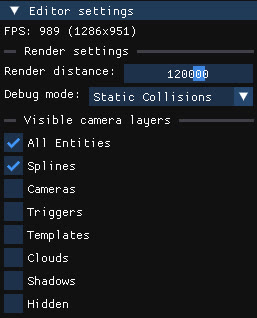
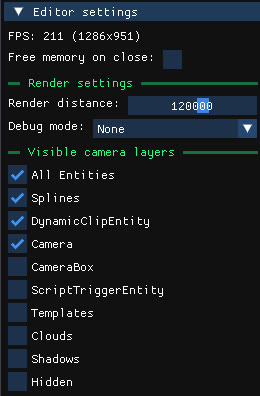
Update readme

Changed region(s): [[0.0, 0.0, 1.0, 1.0]]

diff --git a/README_Level_Editor.md b/README_Level_Editor.md
@@ -2,16 +2,17 @@
 
 - [New Level](#new-level)
 - [Level Editor](#level-editor)
-  - [Level infos](#level-infos)
-  - [Editor settings](#editor-settings)
-  - [Object Tree](#object-tree)
-- [Scene View](#scene-view)
-  - [Add Objects](#create-new-objects)
-  - [Prefabs](#prefabs)
+- [Create new objects](#create-new-objects)
 - [Object Properties](#object-properties)
-  - [Transform](#transform)
-  - [Components](#components)
+- [Custom Components](#components)
+  - [Static Models](#static-models)
+  - [Spawner Templates](#spawner-templates)
+  - [Prefabs](#prefabs)
   - [Splines](#splines)
+  - [Trigger Volumes](#trigger-volumes)
+  - [Outline Switch Crate](#outline-switch-crate)
+  - [Checkpoint Text](#checkpoint-text)
+  - [On Start Music](#on-start-music)
 
 # New Level
 
@@ -24,12 +25,14 @@ You can either create a new level from scratch or duplicate an existing level.
 - Or choose "`none`" to create a new empty level containing:
   - a camera
   - a light source
+  - a music theme
   - a level start & level end
   - a platform with collisions
   - most common crates
 
 Choosing "`none`" also unlock these additional parameters:
   - **Lighting**: Import the main lighting/ambience from another level
+  - **Music**: Import the main music theme from another level (you can still import custom music later on)
   - **Mode**: Crash 1, 2 or 3 (used to create the level start & end)
 
 _basic empty template_:
@@ -39,15 +42,31 @@ _basic empty template_:
 
 # Level Editor
 
-![Level Editor](assets/readme/level_editor/editor.jpg)
+## Key features
 
-## Play
+![Editor Settings](assets/readme/demo.gif)
+
+- You can open multiple levels at once (click on the `Home` icon in the top left or `File -> Open` after opening a first level)
+- You can select multiple objects using Shift
+- You can copy and paste selected objects (Ctrl+C / Ctrl+V) from one level editor to another
+- You can create tabs by clicking on the title of a window and dragging it over another window's title to make it easier to switch between levels
+
+You can also find the list of all objects that have already been tested here: [docs.google.com/spreadsheets/d/1jVLJTm1idsps4p5KSXfI80fT5y7HFQuSiLOLkI18K30](https://docs.google.com/spreadsheets/d/1jVLJTm1idsps4p5KSXfI80fT5y7HFQuSiLOLkI18K30/edit?usp=sharing)
+
+## Save & Play
 
 You can play the current level by clicking this button at the top-right of the level editor:
 
 ![Play](assets/readme/level_editor/play.jpg)
 
-This won't include unsaved changes. If you want to test your latest changes you'll need to save the archive first (`Ctrl+S`), or use the "Save and Launch" shortcut (`Ctrl+L`)
+It won't include unsaved changes.
+- Use `Ctrl+S` to save the level
+- Use `Ctrl+L` to backup, save and launch the level
+- When sharing levels, consider using `File -> Compress & Save` to reduce the level size
+
+#### Backup menu
+- You can manually backup and restore the level. It will be saved under `<level_name>_Backup.pak`
+- An automatic backup is created each time you use `Ctrl+L`, overwriting the previous automatic backup for this level
 
 ## Level Infos
 
@@ -68,6 +87,8 @@ Debug settings for the level editor
 
 ![Editor Settings](assets/readme/level_editor/editor_settings.jpg)
 
+- **Free Memory On Close**: The app will automatically clear its memory once all level editors have been closed, but you can enable this option to force clearing the memory each time you close a level editor (if you encounter memory issues). It's disabled by default because it can sometimes crash the editor.
+
 - **Render distance**: How far to render into the scene. Decrease this value to increase performances
 
 - **Debug Mode**:
@@ -86,12 +107,12 @@ Contains the list of all objects in the level, grouped by type. Click on an elem
 
 3D Entities:
 
-- **Static Objects**: Contains static entities, which represent most of the level's geometry and can have baked-in collisions
-- **Prefabs**: Contains all instanciated prefab entities (See #prefabs)
+- **Static Objects**: Contains static entities, which represent most of the level's geometry and can have baked-in collisions (See [#static objects](#static-models))
+- **Prefabs**: Contains all instanciated prefab entities (See [#prefabs](#prefabs))
 - **Crates**: Contains all crates in the level
-- **Splines**: Contains all spline entities (paths)
+- **Splines**: Contains all spline entities (See [#splines](#splines))
 - **Player Start**: Contains the player start entity (where the character is spawned when starting the level)
-- **CEntity / CGameEntity / CPhysicalEntity**: Contains most of the level's game objects (enemies, hazards, obstacles...)
+- **CEntity / CGameEntity / CPhysicalEntity**: Contains most of the level's game objects (enemies, hazards, obstacles... see [#spawner templates](#spawner-templates))
 - **CActor**: Contains character entities (Fake crash, bosses...)
 
 Objects without a model:
@@ -99,60 +120,43 @@ Objects without a model:
 
 - **CScriptTriggerEntity**: Contains trigger entities (activates something when the player enters its bounds)
 - **CDynamicClipEntity**: Contains clipping entities (invisible boxes that collide with the player)
-- **Other**: Contains all other entities without a model such as VFX or SFX effects
+- **Other**: Contains all other entities without a model such as VFX, SFX or area effects
 - **Cameras**: Contains all types of cameras
-- **CameraBox**: Areas where a camera is active/transitions between cameras
-- **Templates**: Spawner templates
+- **CameraBox**: Contains camera transitions
+- **Templates**: Spawner templates (see [#spawner templates](#spawner-templates))
 - **Hidden**: Hidden objects
 
-## Scene View
+# Scene View
 
-This is where you can move around in the level, select objects, change their position, rotation and scale and copy/paste/delete them.
+This is where you can move around in the level, select one or multiple objects, edit their position/rotation/scale or copy/paste/delete them.
 
-**Controls**:
-- `W,A,S,D`: move the camera (hold `Shift` to move faster)
-- `Right-click`: rotate the camera
-- `Left-click`: select object
-- `Shift + Left Click`: add object to selection
-- `Ctrl + C`: copy selected objects
-- `Ctrl + V`: paste selected objects
-- `Del/Suppr`: delete selected objects
+![Level Editor](assets/readme/level_editor/editor.jpg)
 
-**Note that you can open multiple level editors at the same time, and copy/paste objects from one level to another.**
+### Controls
 
-You can also change the transform mode for the selection:
-- `Ctrl + E`: translate
-- `Ctrl + R`: rotate
-- `Ctrl + T`: scale
+![Controls](assets/readme/level_editor/controls.jpg)
 
 ### Create new objects
 
-Use the right-click context menu to create new crates, collectibles or cameras:
+<img src="assets/readme/level_editor/qa_crates.jpg" alt="Create crates" height="400"/>
 
-<img src="assets/readme/level_editor/context_crate.jpg" alt="Create crates" height="300"/>
-<img src="assets/readme/level_editor/context_collectible.jpg" alt="Create collectibles" height="300"/>
 
-### Prefabs
-
-Prefabs are a special type of objects as they reference a group of child objects that is reused across all instances of the same prefab.
-
-You can edit prefab instances independently, but editing any of these child object will reflect across all prefab instances at the same time:
-
-- **Edit prefab instance**: Click on any child object to select the parent prefab instance (1st picture). At this point you can treat this group as a regular object, copy/paste and move it
-without affecting any other instance.
-
-- **Edit prefab child**: However if you click a second time on a child object (2nd picture), you'll see that every occurence of this object in other instances becomes highlighted. You now have control over the child object inside the prefab, you can still copy/paste, move and delete it but this will reflect across all other prefab instances.
-
-<img src="assets/readme/level_editor/prefab0.jpg" alt="Prefab instance" width="600"/>
-<img src="assets/readme/level_editor/prefab1.jpg" alt="Prefab child" width="600"/>
+Use the quick-access menu (right-click) to create various objects:
+- **New Crate**: Create all types of crates
+- **New Collectible**: Create all types of collectibles
+- **New Platform**: Create new gem platforms, path platforms and teleporters
+- **New Vehicle**: Create new vehicles (Jet Board)
+- **New Bonus Round**: Import a bonus round from C1 (tawna/brio/cortex) or any bonus round from C2/C3
+- **New Camera**: Create a new camera (Relative Camera, Spline Camera or Free Camera) or a new camera transition zone
+- **Other**: Create other useful objects (Death Trigger, Invisible Walls...)
 
 ## Object properties
 
-Contains the transform, the list of components and their properties for the selected object.
-
-![Object Transform](assets/readme/level_editor/object_transform.jpg)
+Contains every editable property for the currently selected object.
 
 The first line contains the object's type and name, the second line contains its parent file (click to open)
+
+![Object Transform](assets/readme/level_editor/object_transform.jpg)
 
 ### Transform
 
@@ -183,24 +187,59 @@ You can also copy/paste values from a component to another instead of pasting it
 
 ![Object Components Paste](assets/readme/level_editor/object_components_paste.jpg)
 
-## Special components
+# Special components
 
-### Splines
+## Static models
+
+<img src="assets/readme/level_editor/c_static.jpg" alt="Static models" width="600"/>
+
+Static models always have 3 components:
+
+- `CModelComponent`: used to change the object's model
+- `CStaticComponent`: used to change the object's visibility
+- `CStaticCollisionComponent`: used to enable or disable collisions for the object. If the option is greyed out, it means that this object doesn't come with baked-in collisions.
+
+## Spawner Templates
+
+<img src="assets/readme/level_editor/c_template.jpg" alt="Template Spawners" width="600"/>
+
+This is what is responsible for spawning most objects in the game other than static models (crates, enemies, platforms...)
+
+Objects with this component are called "Spawners", and they reference a "Template" object, which is the object that actually is actually spawned and that contains all the interesting properties. 
+
+The spawner usually only contains very few components and is mainly used to set the position and rotation for spawning the underlying template.
+
+## Prefabs
+
+Prefabs are a special type of objects as they reference a group of child objects that is reused across all instances of the same prefab.
+
+You can edit prefab instances independently, but editing any of these child object will reflect across all prefab instances at the same time:
+
+- **Edit prefab instance**: Click on any child object to select the parent prefab instance (1st picture). At this point you can treat this group as a regular object, copy/paste and move it
+without affecting any other instance.
+
+- **Edit prefab child**: However if you click a second time on a child object (2nd picture), you'll see that every occurence of this object in other instances becomes highlighted. You now have control over the child object inside the prefab, you can still copy/paste, move and delete it but this will reflect across all other prefab instances.
+
+<img src="assets/readme/level_editor/prefab0.jpg" alt="Prefab instance" width="600"/>
+<img src="assets/readme/level_editor/prefab1.jpg" alt="Prefab child" width="600"/>
+
+## Splines
 
 Splines are a special type of component that represent a path made of positions and rotations.
 They are primarily used for camera paths and enemy/platforms movement.
 
 <img src="assets/readme/level_editor/spline.jpg" alt="Spline" width="700"/>
 
-The GUI for the spline component consists of up to 3 sections:
+The GUI for the spline component consists of up to 4 sections:
 
 - **Positions**: the X,Y,Z position of each control point relative to the spline entity
 - **Rotations**: the first value represents a distance along the spline, and the last three values contains the euler rotation in degrees at that distance.
-- **Markers**: they only contain a distance along the spline, used by some entities to define "start" and "end" points to move along to.
+- **Velocity**: stores a list of velocities defining the speed at which objects move along the spline
+- **Markers**: only contains a distance along the spline, used by some entities to define "start" and "end" points to move along to.
 
 The controls points (positions) are always visible in the 3D scene, however the rotations and markers are only visible when the list is expanded.
 
-**GUI controls**:
+**Spline GUI controls**:
 - Edit values with click+drag
 - `Click` on an item to select it
 - `Shift+click` to select a range
@@ -213,3 +252,30 @@ The controls points (positions) are always visible in the 3D scene, however the 
 - `Click` on a spline to select it and all of its control points
 - `Click again` on a control point to select it individually
 - `Shift+click` to add/remove a control point from the selection
+
+## Trigger Volumes
+
+<img src="assets/readme/level_editor/c_trigger.jpg" alt="Trigger Volume" width="600"/>
+
+
+This component is similar to `CScriptTriggerEntity` objects as it defines a 3D bounding box that triggers an event.
+
+However, unlike `CScriptTriggerEntity` which are separate objects, `CTriggerVolumeBox` components are part of the triggered object. They are only visible when the component is selected.
+
+## Outline Switch Crate
+
+<img src="assets/readme/level_editor/c_outline.jpg" alt="Outline Switch Crate" width="600"/>
+
+Outline switch crates have a custom GUI where you can add, remove or change children outlined crates.
+
+## Checkpoint Text
+
+<img src="assets/readme/level_editor/c_checkpoint.jpg" alt="Checkpoint Text" width="600"/>
+
+It's possible to change the text that is displayed when breaking checkpoints, along with some other properties
+
+## On Start Music
+
+<img src="assets/readme/level_editor/c_music.jpg" alt="On Start Music" width="300"/>
+
+You can listen to the default music, and import your own audio files (.mp3) using this component.

diff --git a/README.md b/README.md
@@ -1,8 +1,8 @@
-# Crash NST Level Editor
+# Crash NST Maker
 
 A mod manager and level editor for Crash Bandicoot: N.Sane Trilogy on PC
 
-<img src="assets/readme/level_editor/editor.jpg" alt="NST Editor" width="800"/>
+<img src="assets/readme/editor.jpg" alt="Crash NST Maker" width="800"/>
 
 ## Table of Contents
 
@@ -19,21 +19,27 @@ This project is a continuation of my earlier modding tool/proof of concept [The 
 
 This new iteration is built on an entirely new C# codebase (replacing the original javascript implementation), with a focus on performance and stability.
 
+Moreover, custom levels created with this tool won't interfere with the original game files (unless explicitely choosing to overwrite them).
+
+### Features
+
 - Create, edit and play custom levels
-- Create, edit and manage active mods
+- Import game objects from any level
+- Manage and create mods
 - Full access to the game assets
 - Advanced tools for exporing and editing game files
 
-## Discussion
+## Discussion / Documentation
+
 - General discussion (The Warp Room): [https://thewarproom.com/showthread.php?tid=270](https://thewarproom.com/showthread.php?tid=270)
 - Development/Help (Discord): [Skylanders Reverse Engineering](https://discord.gg/vsnVrPvVjc) (#nst-level-editor)
-- Steam discussion : [https://steamcommunity.com/app/731490/discussions/0/689746131737976098/](https://steamcommunity.com/app/731490/discussions/0/689746131737976098/)
+- Level Editor documentation: [README_Level_Editor.md](README_Level_Editor.md)
 
 ## Installation
 
 #### Prerequisites:
 - You must own an original copy of Crash Bandicoot NST PC (installed via Steam or Game Pass)
-- If your game is already modded it is preferable to reinstall it before using this tool
+- If your game is already modded it is recommended to reinstall it before using this tool
 
 #### Download:
 You can download the prebuilt windows-x64 executable from the [Releases page](https://github.com/kishimisu/Crash-NST-Level-Editor/releases).
